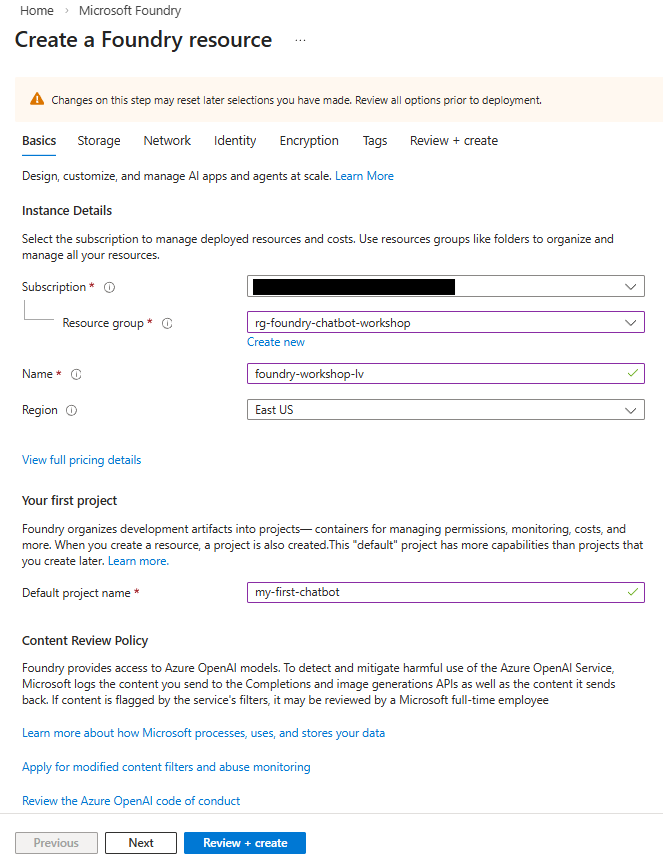
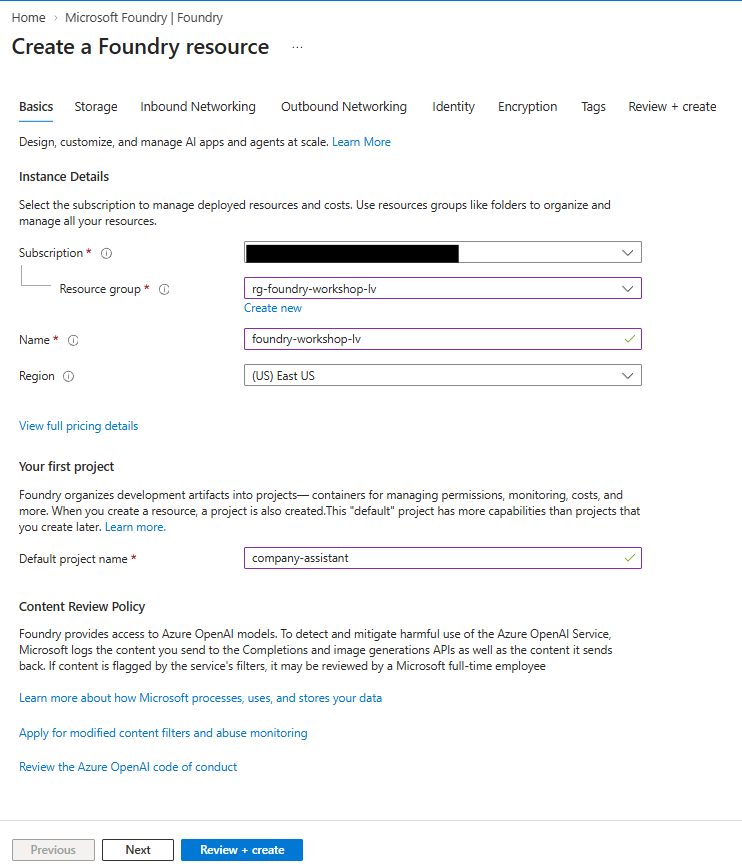
Update lab-1 and screenshots

diff --git a/lab-1-setup-azure-resources.md b/lab-1-setup-azure-resources.md
@@ -78,19 +78,18 @@ A deployment is an instance of a model that you can call via API. In this worksh
 
 ### 3. Deploy AI Models
 
-1. Go to your Foundry resource → Click "Go to Foundry portal"
+1. When the deployment is complete, click 'Go to resource' → Click "Go to Foundry portal"
 2. Toggle "New Foundry" experience if prompted
 
    <img src="images/new-foundry.png" width="800"/>
 
-3. Select your project (`company-assistant`) → "Let's go"
+3. In case you are asked to Select a project to continue, select (`company-assistant`) → "Let's go"
 
-   <img src="images/select-project.png" width="500"/>
 
 4. **Deploy Chat Model** (default: `gpt-5.5`):
-   - Go to Discover → Models
+   - Click on the Discover tab on the top → Models tab on the left
    - Search for `gpt-5.5` (or your chosen model from the Model Options section)
-   - Click the model → Deploy → "Default settings"
+   - Click the model → Deploy on the top right → "Default settings"
 
    <img src="images/foundry-models-1.png" width="800"/>
    <img src="images/foundry-models-2.png" width="800"/>
